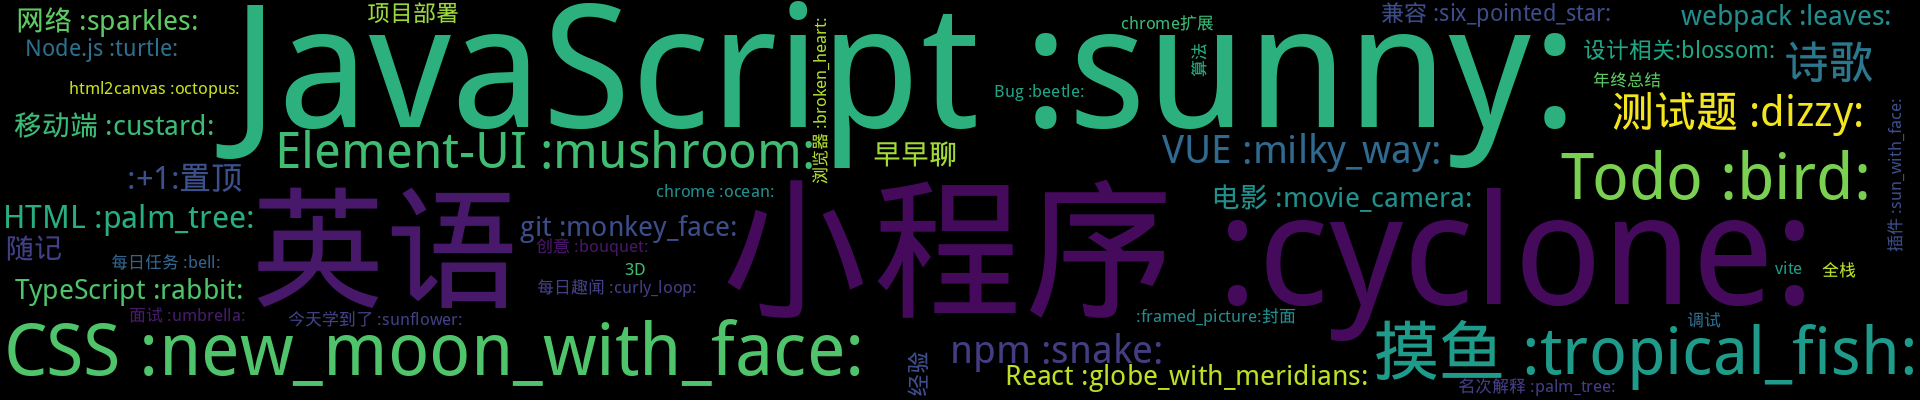
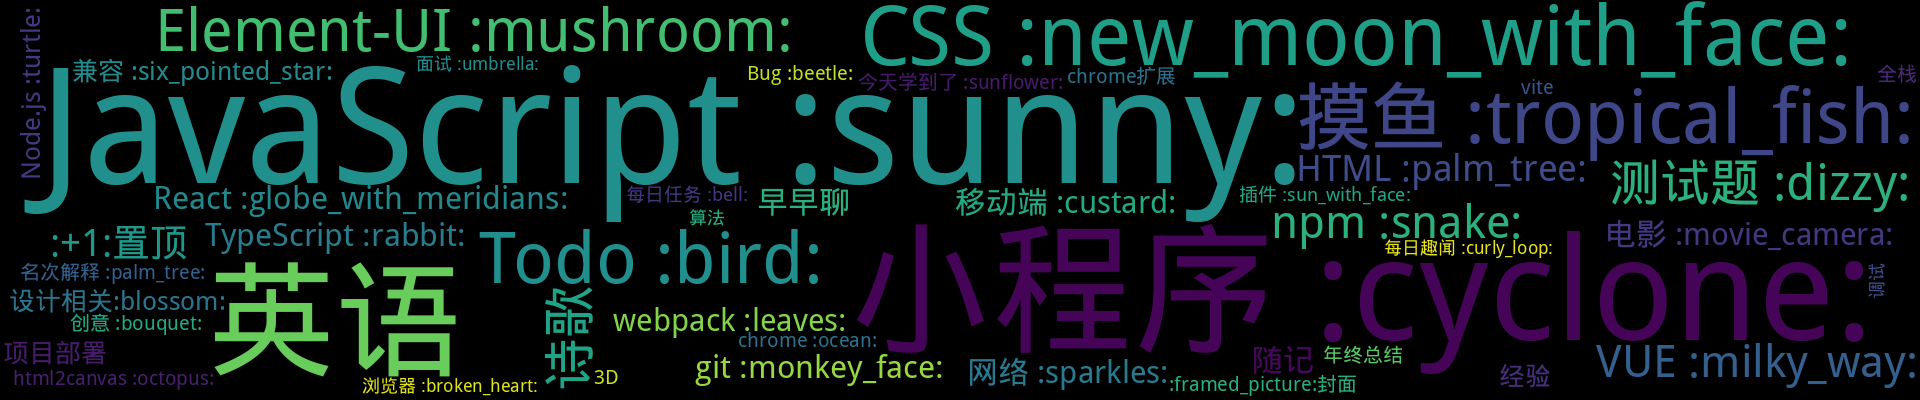
Update from Github Action

diff --git a/README.md b/README.md
@@ -3,7 +3,7 @@
 <p align='center'>
     <img src="https://badgen.net/badge/labels/49"/>
     <img src="https://badgen.net/github/issues/smileyby/ghiblog"/>
-    <img src="https://badgen.net/badge/last-commit/2022-03-18 06:49:11"/>
+    <img src="https://badgen.net/badge/last-commit/2022-03-18 09:14:18"/>
     <img src="https://badgen.net/github/forks/smileyby/ghiblog"/>
     <img src="https://badgen.net/github/stars/smileyby/ghiblog"/>
     <img src="https://badgen.net/github/watchers/smileyby/ghiblog"/>
@@ -305,7 +305,7 @@ Can we make an one-time exception for tonight？今晚不能破例一次吗？
 </details>
 
 <details>
-<summary>Todo :bird:	<sup>16:newspaper:</sup></summary>
+<summary>Todo :bird:	<sup>15:newspaper:</sup></summary>
 
 - [todo：canvas](https://github.com/smileyby/notes/issues/234)  <sup>0 :speech_balloon:</sup>  	 
 - [Todo：了解css module](https://github.com/smileyby/notes/issues/201)  <sup>0 :speech_balloon:</sup>  	 
@@ -322,7 +322,6 @@ Can we make an one-time exception for tonight？今晚不能破例一次吗？
 - [Todo：递归](https://github.com/smileyby/notes/issues/128)  <sup>0 :speech_balloon:</sup>  	 
 - [Todo：框架：vue和react回顾，JS基础回顾](https://github.com/smileyby/notes/issues/111)  <sup>1 :speech_balloon:</sup>  	 
 - [Vite：vite替换webpack](https://github.com/smileyby/notes/issues/98)  <sup>2 :speech_balloon:</sup>  	 
-- [小程序：todo-list](https://github.com/smileyby/notes/issues/27)  <sup>0 :speech_balloon:</sup>  	 
 
 
 </details>
@@ -410,7 +409,7 @@ Can we make an one-time exception for tonight？今晚不能破例一次吗？
 </details>
 
 <details>
-<summary>小程序 :cyclone:	<sup>28:newspaper:</sup></summary>
+<summary>小程序 :cyclone:	<sup>27:newspaper:</sup></summary>
 
 - [小程序 ：showLoading 和 hideLoading 不匹配导致报错：hideLoading:failed toast cannot found ](https://github.com/smileyby/notes/issues/225)  <sup>0 :speech_balloon:</sup>  	 
 - [小程序：软键盘遮挡输入框问题](https://github.com/smileyby/notes/issues/219)  <sup>0 :speech_balloon:</sup>  	 
@@ -423,7 +422,6 @@ Can we make an one-time exception for tonight？今晚不能破例一次吗？
 - [小程序组件内 引用父组件样式](https://github.com/smileyby/notes/issues/137)  <sup>0 :speech_balloon:</sup>  	 
 - [小程序内如何引导用户关注公众号](https://github.com/smileyby/notes/issues/135)  <sup>0 :speech_balloon:</sup>  	 
 - [小程序：微信api=>wxacode.get=>生成小程序码并不支持白色线条](https://github.com/smileyby/notes/issues/112)  <sup>0 :speech_balloon:</sup>  	 
-- [小程序：todo-list](https://github.com/smileyby/notes/issues/27)  <sup>0 :speech_balloon:</sup>  	 
 - [小程序：TEXT标签还能嵌套text标签，其他标签无效 ](https://github.com/smileyby/notes/issues/26)  <sup>0 :speech_balloon:</sup>  	 
 - [小程序：组件内【boundingClientRect】方法获取元素高度时，返回null](https://github.com/smileyby/notes/issues/25)  <sup>0 :speech_balloon:</sup>  	 
 - [小程序：scroll-view组件内部元素直接添加阴影会被截断 ](https://github.com/smileyby/notes/issues/24)  <sup>0 :speech_balloon:</sup>  	 
